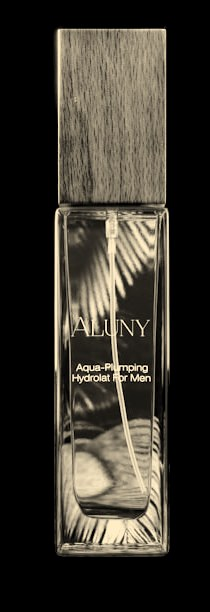
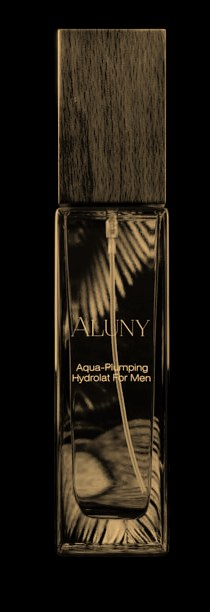
feat: thème noir & or incandescent inspiré de la référence
HERO : titre OR incandescent (dégradé or fondu + halo lumineux +
traînée horizontale + lueur dorée permanente qui pulse), ambiance
cinématographique (spot du haut, halo chaud derrière le titre,
lueurs latérales sur les flacons, vignette, sol réfléchissant).
Flacon retraité en noir profond à reflets dorés. Brume transformée
en fumée douce et diffuse.

THÈME GLOBAL : titres dorés incandescents sur sections sombres,
séparateurs or lumineux, signature NEXORA et titres newsletter avec
glow, boutons hero en verre doré, noir réchauffé (#0a0908) sur header/
sections/newsletter/footer, halo doré sur la newsletter.

https://claude.ai/code/session_01VYzYx5Xu8eY5Ljv3yTqdLG

diff --git a/styles.css b/styles.css
@@ -93,7 +93,7 @@ body.has-cursor a, body.has-cursor button { cursor: none; }
 /* ── HEADER ─────────────────────────────────────────────── */
 .header {
   position: relative; z-index: 1;
-  background: var(--black);
+  background: #0a0908;
   backdrop-filter: blur(10px);
   -webkit-backdrop-filter: blur(10px);
   transition: background var(--transition), border-bottom var(--transition);
@@ -222,15 +222,29 @@ body.has-cursor a, body.has-cursor button { cursor: none; }
 .btn--outlined:hover { background: var(--white); color: var(--black); border-color: var(--white); }
 
 .btn--gold { background: var(--gold); color: var(--black); border-color: var(--gold); font-weight: 600; }
-.btn--gold:hover { background: var(--gold-dark); border-color: var(--gold-dark); }
+.btn--gold:hover { background: var(--gold-dark); border-color: var(--gold-dark); box-shadow: 0 0 24px rgba(201,169,110,0.5); }
 
 .btn--sm { padding: 0.55rem 1.3rem; font-size: 0.65rem; letter-spacing: 0.15em; }
 .btn--full { width: 100%; }
 
+/* Boutons du hero — verre doré incandescent (thème noir & or) */
+.hero__ctas .btn {
+  color: var(--gold);
+  border-color: rgba(201,169,110,0.55);
+  background: rgba(10,8,6,0.30);
+  -webkit-backdrop-filter: blur(2px); backdrop-filter: blur(2px);
+}
+.hero__ctas .btn--filled { background: rgba(201,169,110,0.12); }
+.hero__ctas .btn:hover {
+  background: var(--gold); color: #0a0908; border-color: var(--gold);
+  box-shadow: 0 0 28px rgba(201,169,110,0.55);
+}
+
 /* ── SECTIONS ────────────────────────────────────────────── */
 .section { padding: 8rem 0; }
 .section--white { background: var(--white); color: var(--black); }
-.section--dark { background: var(--black); color: var(--white); }
+/* noir légèrement réchauffé pour l'ambiance or */
+.section--dark  { background: #0a0908; color: var(--white); }
 
 .section-header { text-align: center; margin-bottom: 5rem; }
 .section-eyebrow {
@@ -239,11 +253,21 @@ body.has-cursor a, body.has-cursor button { cursor: none; }
 }
 .section-eyebrow--light { color: var(--gold); }
 .section-title { margin-bottom: 1.5rem; }
-.section-title--light { color: var(--white); }
+/* titres dorés incandescents sur fond sombre */
+.section-title--light {
+  background: linear-gradient(105deg, #b8935a 0%, #e8cd96 45%, #ffe9b8 55%, #c9a96e 100%);
+  -webkit-background-clip: text; background-clip: text;
+  -webkit-text-fill-color: transparent; color: transparent;
+  filter: drop-shadow(0 0 22px rgba(201,169,110,0.30));
+}
 .title-divider {
   width: 40px; height: 1px; background: var(--black); margin: 0 auto;
 }
-.title-divider--gold { background: var(--gold); }
+.title-divider--gold {
+  width: 60px; height: 1px;
+  background: linear-gradient(to right, transparent, var(--gold), transparent);
+  box-shadow: 0 0 10px rgba(201,169,110,0.55);
+}
 
 /* ── HERO ─────────────────────────────────────────────────── */
 .hero {
@@ -266,15 +290,34 @@ body.has-cursor a, body.has-cursor button { cursor: none; }
   justify-content: center;
   min-height: 100vh;
 }
+/* Ambiance cinématographique noir & or */
+.hero { background: #060606; }
 .hero::before {
   content: '';
   position: absolute; inset: 0;
   background:
-    radial-gradient(ellipse at 50% 42%, rgba(201,169,110,0.06) 0%, transparent 42%),
-    radial-gradient(ellipse at 18% 50%, rgba(201,169,110,0.04) 0%, transparent 35%),
-    radial-gradient(ellipse at 82% 50%, rgba(201,169,110,0.04) 0%, transparent 35%),
-    radial-gradient(ellipse at 30% 70%, rgba(255,255,255,0.02) 0%, transparent 50%);
+    /* spot lumineux descendant du haut */
+    radial-gradient(ellipse 60% 45% at 50% -5%, rgba(201,169,110,0.14) 0%, transparent 60%),
+    /* halo doré chaud derrière le titre */
+    radial-gradient(ellipse 50% 42% at 50% 48%, rgba(201,169,110,0.13) 0%, transparent 60%),
+    /* lueurs latérales sur les flacons */
+    radial-gradient(ellipse 22% 50% at 9% 52%, rgba(201,169,110,0.10) 0%, transparent 60%),
+    radial-gradient(ellipse 22% 50% at 91% 52%, rgba(201,169,110,0.10) 0%, transparent 60%),
+    /* vignette sombre */
+    radial-gradient(ellipse 90% 90% at 50% 45%, transparent 55%, rgba(0,0,0,0.65) 100%);
   pointer-events: none;
+  z-index: 0;
+}
+/* Sol réfléchissant + brume basse */
+.hero::after {
+  content: '';
+  position: absolute; left: 0; right: 0; bottom: 0;
+  height: 26%;
+  background:
+    linear-gradient(to top, rgba(201,169,110,0.07) 0%, rgba(201,169,110,0.02) 40%, transparent 100%),
+    linear-gradient(to top, rgba(0,0,0,0.5) 0%, transparent 100%);
+  pointer-events: none;
+  z-index: 0;
 }
 
 /* ── HERO CLUSTERS (flacons réalistes) ───────────────────── */
@@ -320,11 +363,12 @@ body.has-cursor a, body.has-cursor button { cursor: none; }
   width: 100%;
   height: auto;
   border-radius: 4px;
-  /* fond noir du cliché fondu dans le hero + halo doré */
-  filter: drop-shadow(0 18px 45px rgba(0,0,0,0.6))
-          drop-shadow(0 0 50px rgba(201,169,110,0.10));
-  -webkit-mask-image: radial-gradient(ellipse 78% 88% at 50% 50%, #000 60%, transparent 100%);
-  mask-image: radial-gradient(ellipse 78% 88% at 50% 50%, #000 60%, transparent 100%);
+  /* fond noir du cliché fondu dans le hero + halo doré chaud */
+  filter: drop-shadow(0 22px 50px rgba(0,0,0,0.7))
+          drop-shadow(0 0 55px rgba(201,169,110,0.22))
+          drop-shadow(0 0 18px rgba(201,169,110,0.15));
+  -webkit-mask-image: radial-gradient(ellipse 76% 86% at 50% 50%, #000 58%, transparent 100%);
+  mask-image: radial-gradient(ellipse 76% 86% at 50% 50%, #000 58%, transparent 100%);
 }
 
 /* Point d'origine du spray — haut du flacon, côté intérieur */
@@ -373,12 +417,13 @@ body.has-cursor a, body.has-cursor button { cursor: none; }
   border-radius: 50%;
   background: var(--c, rgba(201,169,110,0.8));
   opacity: 0;
+  filter: blur(1.5px);
   animation: mistP var(--d, 2.5s) var(--t, 0s) ease-out infinite;
 }
 @keyframes mistP {
-  0%   { transform: translate(0,0) scale(1);                          opacity: 0.9; }
-  14%  { opacity: 0.82; }
-  100% { transform: translate(var(--dx,90px),var(--dy,0px)) scale(0.06); opacity: 0; }
+  0%   { transform: translate(0,0) scale(0.8);                         opacity: 0.85; }
+  14%  { opacity: 0.7; }
+  100% { transform: translate(var(--dx,90px),var(--dy,0px)) scale(2.6); opacity: 0; }
 }
 
 /* Fragments dorés */
@@ -407,15 +452,44 @@ body.has-cursor a, body.has-cursor button { cursor: none; }
   color: var(--gold); margin-bottom: 2rem; display: block;
 }
 
-/* Titre avec shimmer + effet brume */
-.hero__title { color: var(--white); margin-bottom: 1.5rem; line-height: 1.05; }
+/* Titre OR INCANDESCENT avec halo lumineux */
+.hero__title {
+  position: relative;
+  margin-bottom: 1.5rem;
+  line-height: 1.05;
+}
+/* halo doux derrière le titre */
+.hero__title::before {
+  content: '';
+  position: absolute;
+  left: -18%; right: -18%; top: 50%;
+  height: 130%;
+  transform: translateY(-50%);
+  background: radial-gradient(ellipse at center, rgba(201,169,110,0.30) 0%, rgba(201,169,110,0.10) 35%, transparent 68%);
+  filter: blur(22px);
+  z-index: -1;
+  pointer-events: none;
+}
+/* fine traînée de lumière horizontale */
+.hero__title::after {
+  content: '';
+  position: absolute;
+  left: -10%; right: -10%; top: 52%;
+  height: 2px;
+  transform: translateY(-50%);
+  background: linear-gradient(to right, transparent, rgba(255,224,160,0.55) 30%, rgba(255,240,210,0.8) 50%, rgba(255,224,160,0.55) 70%, transparent);
+  filter: blur(1.2px);
+  z-index: -1;
+  opacity: 0.7;
+  pointer-events: none;
+}
 
 .hero__title--shine {
   background: linear-gradient(
-    112deg,
-    #ffffff 0%, #ffffff 30%,
-    #c9a96e 50%,
-    #ffffff 70%, #ffffff 100%
+    105deg,
+    #9a7434 0%, #c9a96e 26%,
+    #ffe9b8 50%,
+    #c9a96e 74%, #9a7434 100%
   );
   background-size: 280% 100%;
   background-position: 150% 0;
@@ -432,9 +506,10 @@ body.has-cursor a, body.has-cursor button { cursor: none; }
   0%, 100% { background-position: 150% 0; }
   46%, 54%  { background-position: -50% 0; }
 }
+/* Lueur dorée permanente qui s'intensifie au passage de la brume */
 @keyframes mistTouch {
-  0%, 100%  { filter: blur(0px)   drop-shadow(0 0 0px   rgba(201,169,110,0.0)); }
-  40%, 60%  { filter: blur(0.9px) drop-shadow(0 0 18px  rgba(201,169,110,0.3)); }
+  0%, 100%  { filter: drop-shadow(0 0 20px rgba(201,169,110,0.45)) drop-shadow(0 0 46px rgba(201,169,110,0.20)); }
+  45%, 55%  { filter: blur(0.5px) drop-shadow(0 0 34px rgba(255,214,140,0.62)) drop-shadow(0 0 70px rgba(201,169,110,0.32)); }
 }
 
 .hero__subtitle {
@@ -522,6 +597,7 @@ body.has-cursor a, body.has-cursor button { cursor: none; }
 .signature-text {
   display: block; font-family: 'Playfair Display', serif; font-size: 3rem; font-style: italic;
   color: var(--gold); letter-spacing: 0.1em; margin-bottom: 0.5rem;
+  text-shadow: 0 0 28px rgba(201,169,110,0.4);
 }
 .signature-sub { font-size: 0.65rem; letter-spacing: 0.3em; text-transform: uppercase; color: rgba(255,255,255,0.3); }
 
@@ -534,9 +610,14 @@ body.has-cursor a, body.has-cursor button { cursor: none; }
 .feature-text { font-size: 0.85rem; color: var(--gray-mid); line-height: 1.8; }
 
 /* ── NEWSLETTER ──────────────────────────────────────────── */
-.newsletter { background: var(--black); padding: 7rem 0; }
+.newsletter {
+  background:
+    radial-gradient(ellipse 60% 80% at 50% 0%, rgba(201,169,110,0.10) 0%, transparent 60%),
+    #0a0908;
+  padding: 7rem 0;
+}
 .newsletter__inner { text-align: center; }
-.newsletter__title { font-family: 'Playfair Display', serif; font-size: clamp(2.5rem, 5vw, 4rem); color: var(--white); margin-bottom: 1rem; font-style: italic; }
+.newsletter__title { font-family: 'Playfair Display', serif; font-size: clamp(2.5rem, 5vw, 4rem); color: var(--white); margin-bottom: 1rem; font-style: italic; text-shadow: 0 0 30px rgba(201,169,110,0.25); }
 .newsletter__subtitle { color: rgba(255,255,255,0.5); font-size: 0.85rem; letter-spacing: 0.08em; margin-bottom: 2.5rem; max-width: 480px; margin-left: auto; margin-right: auto; }
 .newsletter__form { display: flex; gap: 0; max-width: 480px; margin: 0 auto 1rem; }
 .newsletter__input {
@@ -551,7 +632,7 @@ body.has-cursor a, body.has-cursor button { cursor: none; }
 .newsletter__success.visible { display: block; }
 
 /* ── FOOTER ──────────────────────────────────────────────── */
-.footer { background: var(--black); border-top: 1px solid rgba(255,255,255,0.07); padding: 6rem 0 3rem; }
+.footer { background: #0a0908; border-top: 1px solid rgba(201,169,110,0.12); padding: 6rem 0 3rem; }
 .footer__grid { display: grid; grid-template-columns: 2fr 1fr 1fr 1fr; gap: 4rem; margin-bottom: 5rem; }
 .footer__logo { font-family: 'Playfair Display', serif; font-size: 2rem; letter-spacing: 0.25em; color: var(--white); display: block; margin-bottom: 1rem; }
 .footer__tagline { font-size: 0.8rem; color: rgba(255,255,255,0.4); letter-spacing: 0.05em; margin-bottom: 1rem; }
@@ -598,7 +679,7 @@ body.has-cursor a, body.has-cursor button { cursor: none; }
 .products-grid .product-card:nth-child(3) { transition-delay: 0.2s; }
 
 /* ── PRESS LOGOS & TESTIMONIALS ──────────────────────────── */
-.section--black { background: var(--black); color: var(--white); }
+.section--black { background: #0a0908; color: var(--white); }
 
 .press-logos {
   display: flex;
